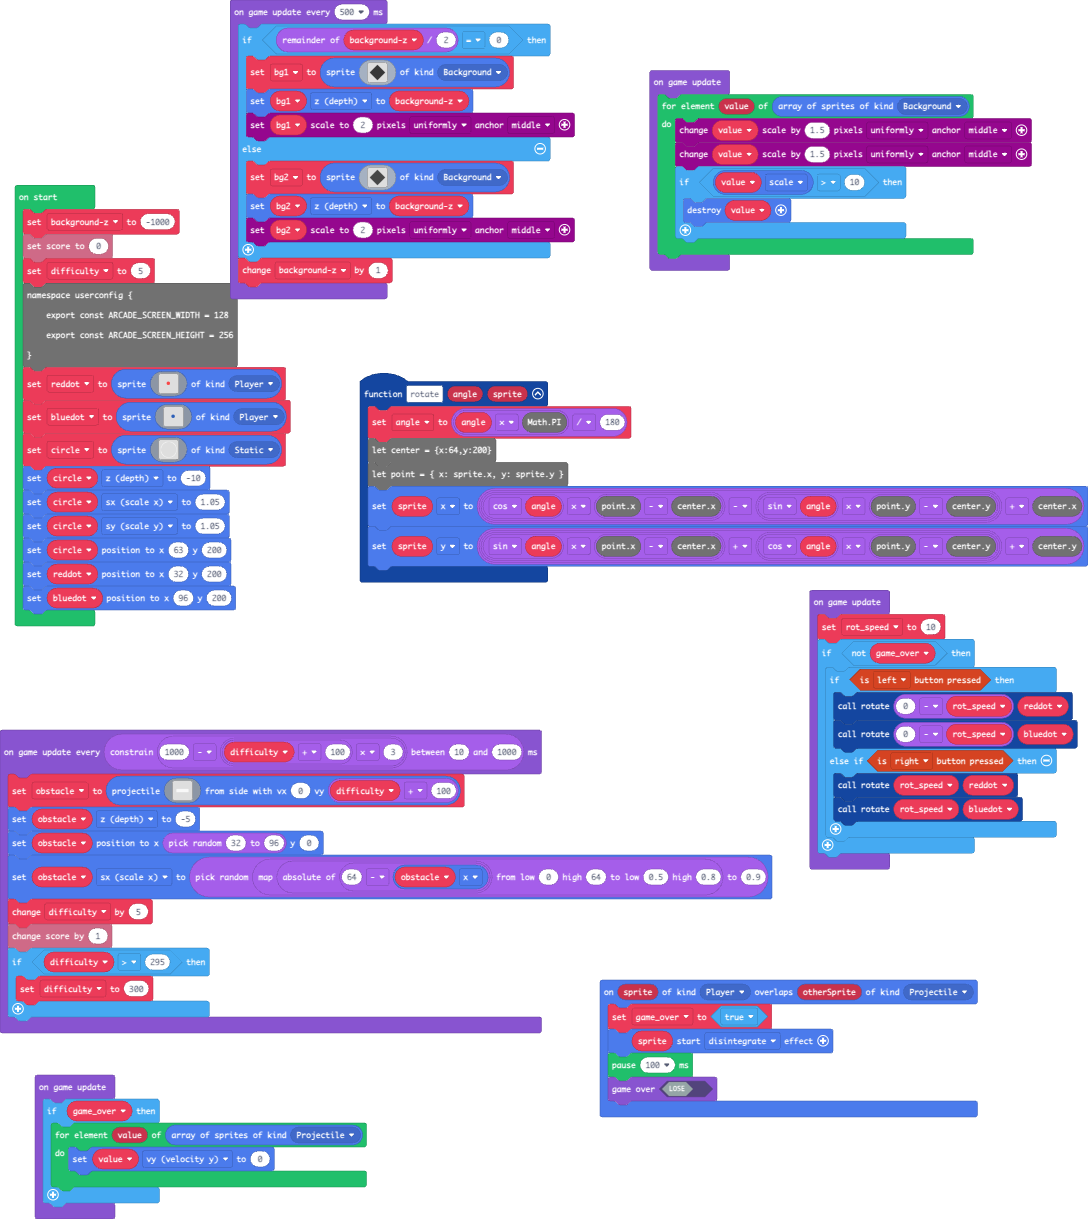
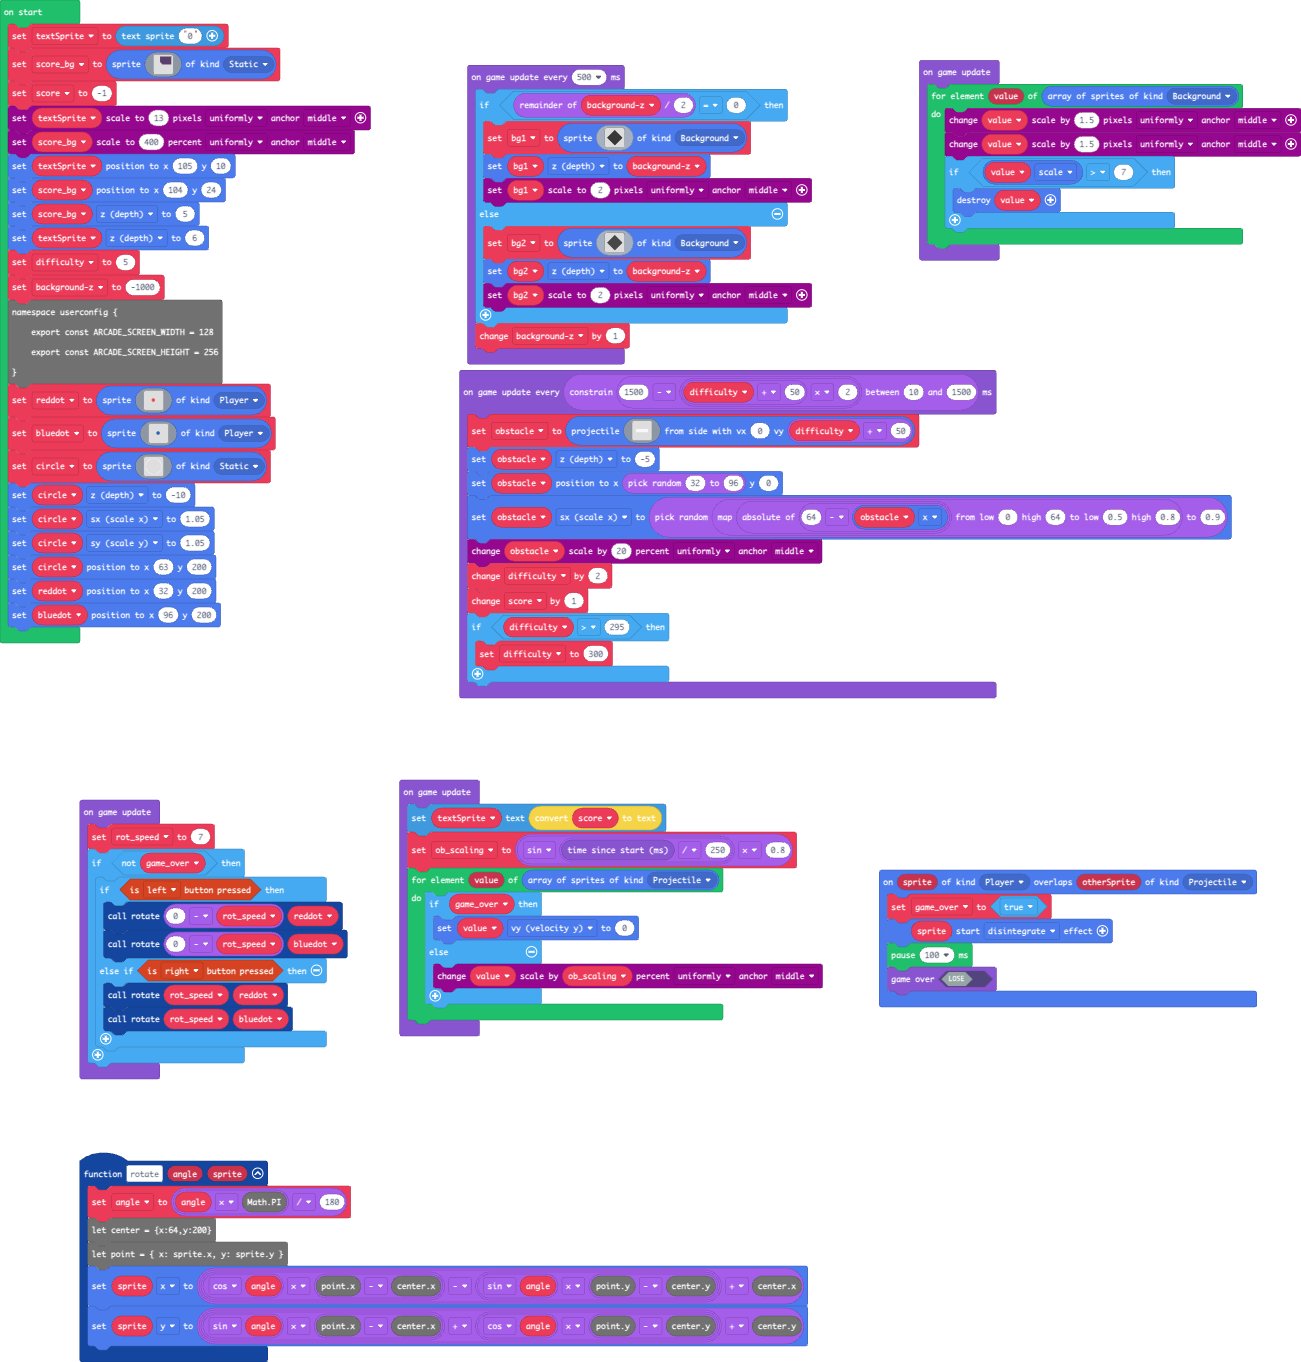
added dyanmic sizing for obstacles, adjusted speed & difficulty, made custom text display for score

diff --git a/main.ts b/main.ts
@@ -17,13 +17,22 @@ sprite.x = Math.cos(angle) * (point.x - center.x) - Math.sin(angle) * (point.y -
 }
 let bg2: Sprite = null
 let bg1: Sprite = null
-let rot_speed = 0
 let obstacle: Sprite = null
+let rot_speed = 0
+let ob_scaling = 0
 let angle = 0
 let game_over = false
-let backgroundz = -1000
-info.setScore(0)
+let textSprite = textsprite.create("0")
+let score_bg = sprites.create(assets.image`score bg`, SpriteKind.Static)
+let score = -1
+scaling.scaleToPixels(textSprite, 13, ScaleDirection.Uniformly, ScaleAnchor.Middle)
+scaling.scaleToPercent(score_bg, 400, ScaleDirection.Uniformly, ScaleAnchor.Middle)
+textSprite.setPosition(105, 10)
+score_bg.setPosition(104, 24)
+score_bg.z = 5
+textSprite.z = 6
 let difficulty = 5
+let backgroundz = -1000
 namespace userconfig {
     export const ARCADE_SCREEN_WIDTH = 128
     export const ARCADE_SCREEN_HEIGHT = 256
@@ -37,28 +46,28 @@ circle.sy = 1.05
 circle.setPosition(63, 200)
 reddot.setPosition(32, 200)
 bluedot.setPosition(96, 200)
-game.onUpdateInterval(Math.constrain(1000 - (difficulty + 100) * 3, 10, 1000), function () {
-    obstacle = sprites.createProjectileFromSide(assets.image`obstacle`, 0, difficulty + 100)
-    obstacle.z = -5
-    obstacle.setPosition(randint(32, 96), 0)
-    obstacle.sx = randint(Math.map(Math.abs(64 - obstacle.x), 0, 64, 0.5, 0.8), 0.9)
-    difficulty += 5
-    info.changeScoreBy(1)
-    if (difficulty > 295) {
-        difficulty = 300
-    }
-})
 game.onUpdate(function () {
     for (let value of sprites.allOfKind(SpriteKind.Background)) {
         scaling.scaleByPixels(value, 1.5, ScaleDirection.Uniformly, ScaleAnchor.Middle)
         scaling.scaleByPixels(value, 1.5, ScaleDirection.Uniformly, ScaleAnchor.Middle)
-        if (value.scale > 10) {
+        if (value.scale > 7) {
             sprites.destroy(value)
         }
     }
 })
 game.onUpdate(function () {
-    rot_speed = 10
+    textSprite.setText(convertToText(score))
+    ob_scaling = Math.sin(game.runtime() / 250) * 0.8
+    for (let value of sprites.allOfKind(SpriteKind.Projectile)) {
+        if (game_over) {
+            value.vy = 0
+        } else {
+            scaling.scaleByPercent(value, ob_scaling, ScaleDirection.Uniformly, ScaleAnchor.Middle)
+        }
+    }
+})
+game.onUpdate(function () {
+    rot_speed = 7
     if (!(game_over)) {
         if (controller.left.isPressed()) {
             rotate(0 - rot_speed, reddot)
@@ -69,11 +78,16 @@ game.onUpdate(function () {
         }
     }
 })
-game.onUpdate(function () {
-    if (game_over) {
-        for (let value of sprites.allOfKind(SpriteKind.Projectile)) {
-            value.vy = 0
-        }
+game.onUpdateInterval(Math.constrain(1500 - (difficulty + 50) * 2, 10, 1500), function () {
+    obstacle = sprites.createProjectileFromSide(assets.image`obstacle`, 0, difficulty + 50)
+    obstacle.z = -5
+    obstacle.setPosition(randint(32, 96), 0)
+    obstacle.sx = randint(Math.map(Math.abs(64 - obstacle.x), 0, 64, 0.5, 0.8), 0.9)
+    scaling.scaleByPercent(obstacle, 20, ScaleDirection.Uniformly, ScaleAnchor.Middle)
+    difficulty += 2
+    score += 1
+    if (difficulty > 295) {
+        difficulty = 300
     }
 })
 game.onUpdateInterval(500, function () {

diff --git a/images.g.ts b/images.g.ts
@@ -472,6 +472,25 @@ namespace myImages {
 ................................................................
 ................................................................
 `;
+            case "image3":
+            case "score bg":return img`
+. . . . . c c c c c c c c c c c 
+. . . . . c c c c c c c c c c c 
+. . . . . c c c c c c c c c c c 
+. . . . . c c c c c c c c c c c 
+. . . . . c c c c c c c c c c c 
+. . . . . c c c c c c c c c c c 
+. . . . . . c c c c c c c c c c 
+. . . . . . . c c c c c c c c c 
+. . . . . . . . . . . . . . . . 
+. . . . . . . . . . . . . . . . 
+. . . . . . . . . . . . . . . . 
+. . . . . . . . . . . . . . . . 
+. . . . . . . . . . . . . . . . 
+. . . . . . . . . . . . . . . . 
+. . . . . . . . . . . . . . . . 
+. . . . . . . . . . . . . . . . 
+`;
         }
         return null;
     })
